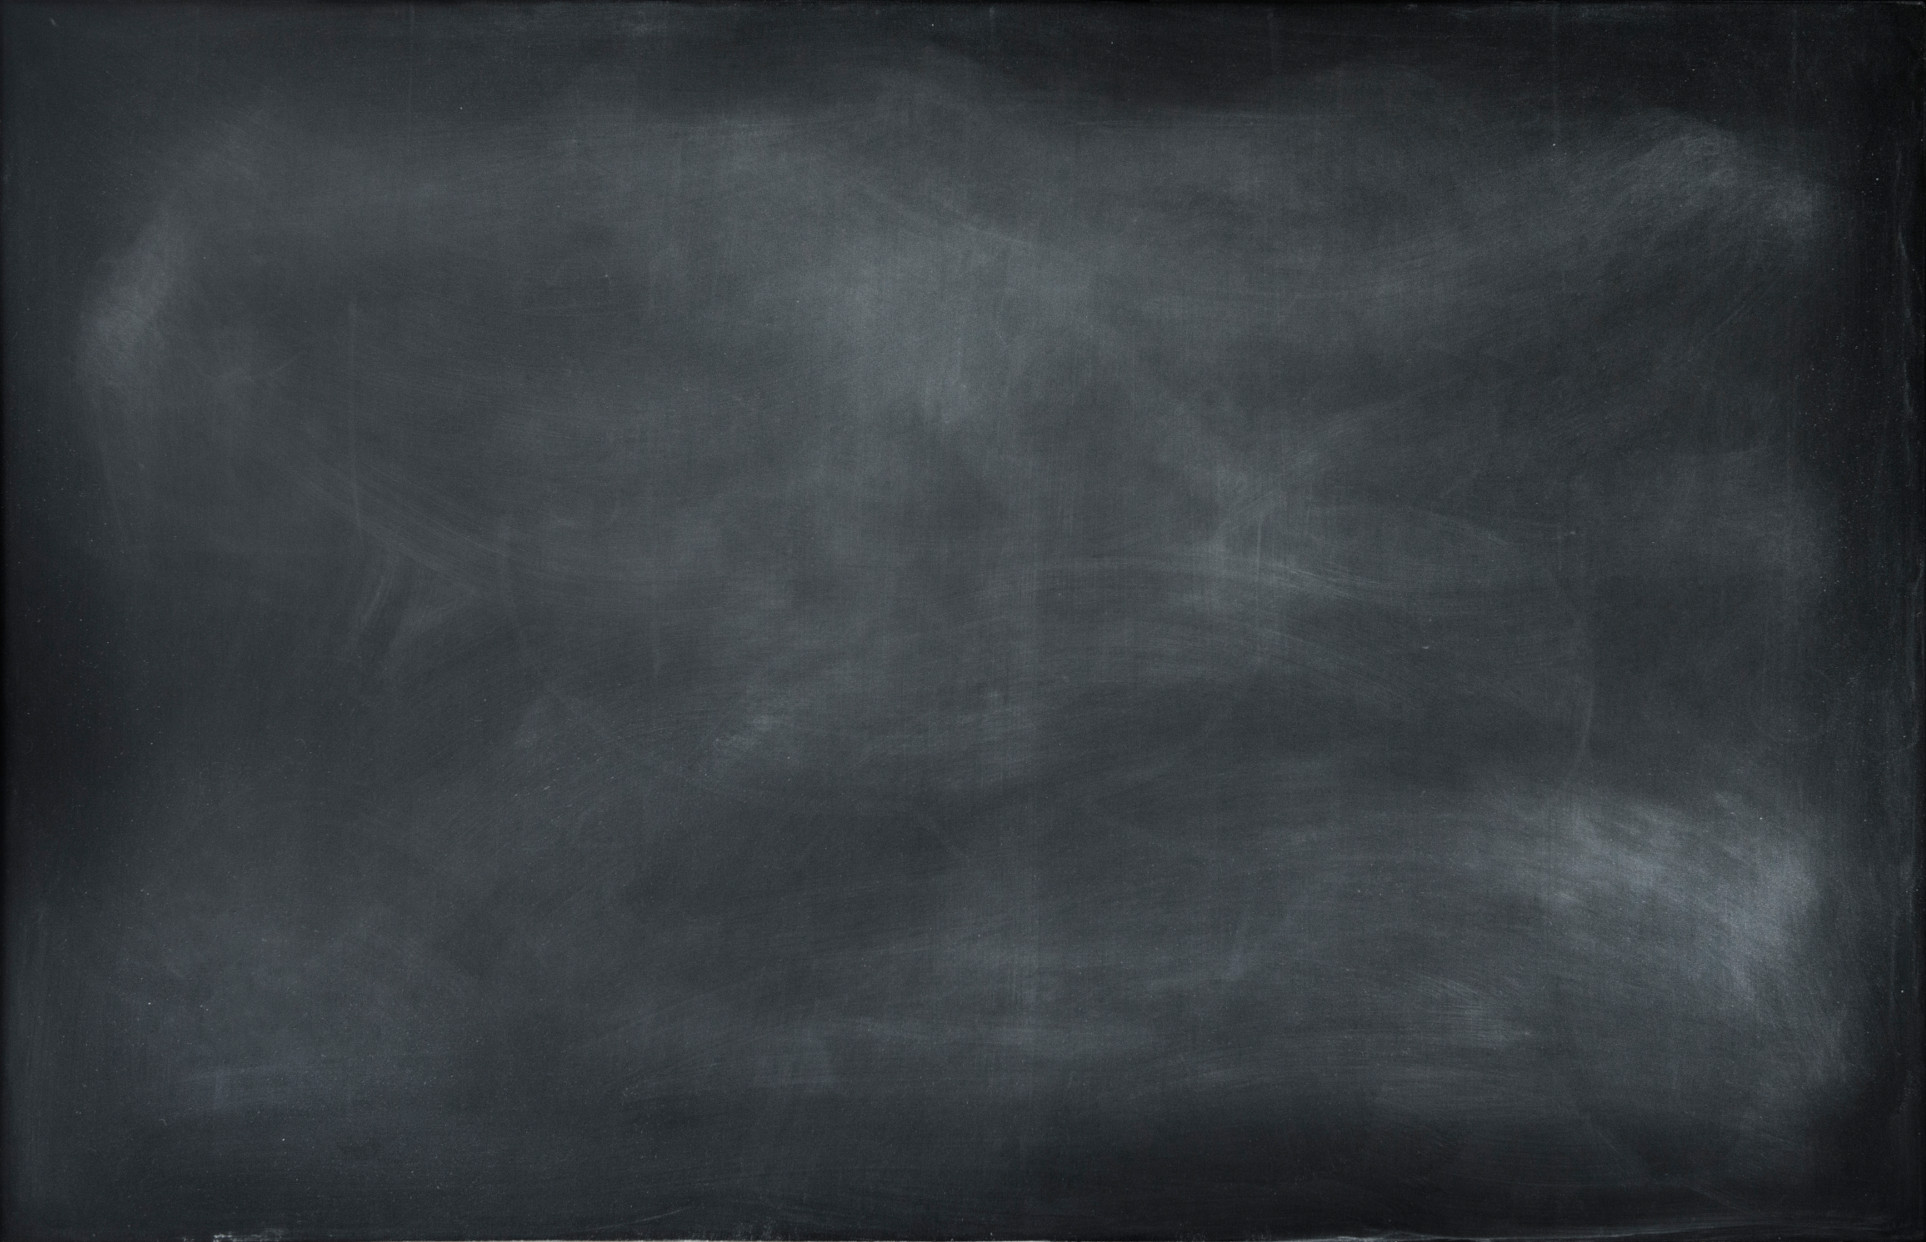
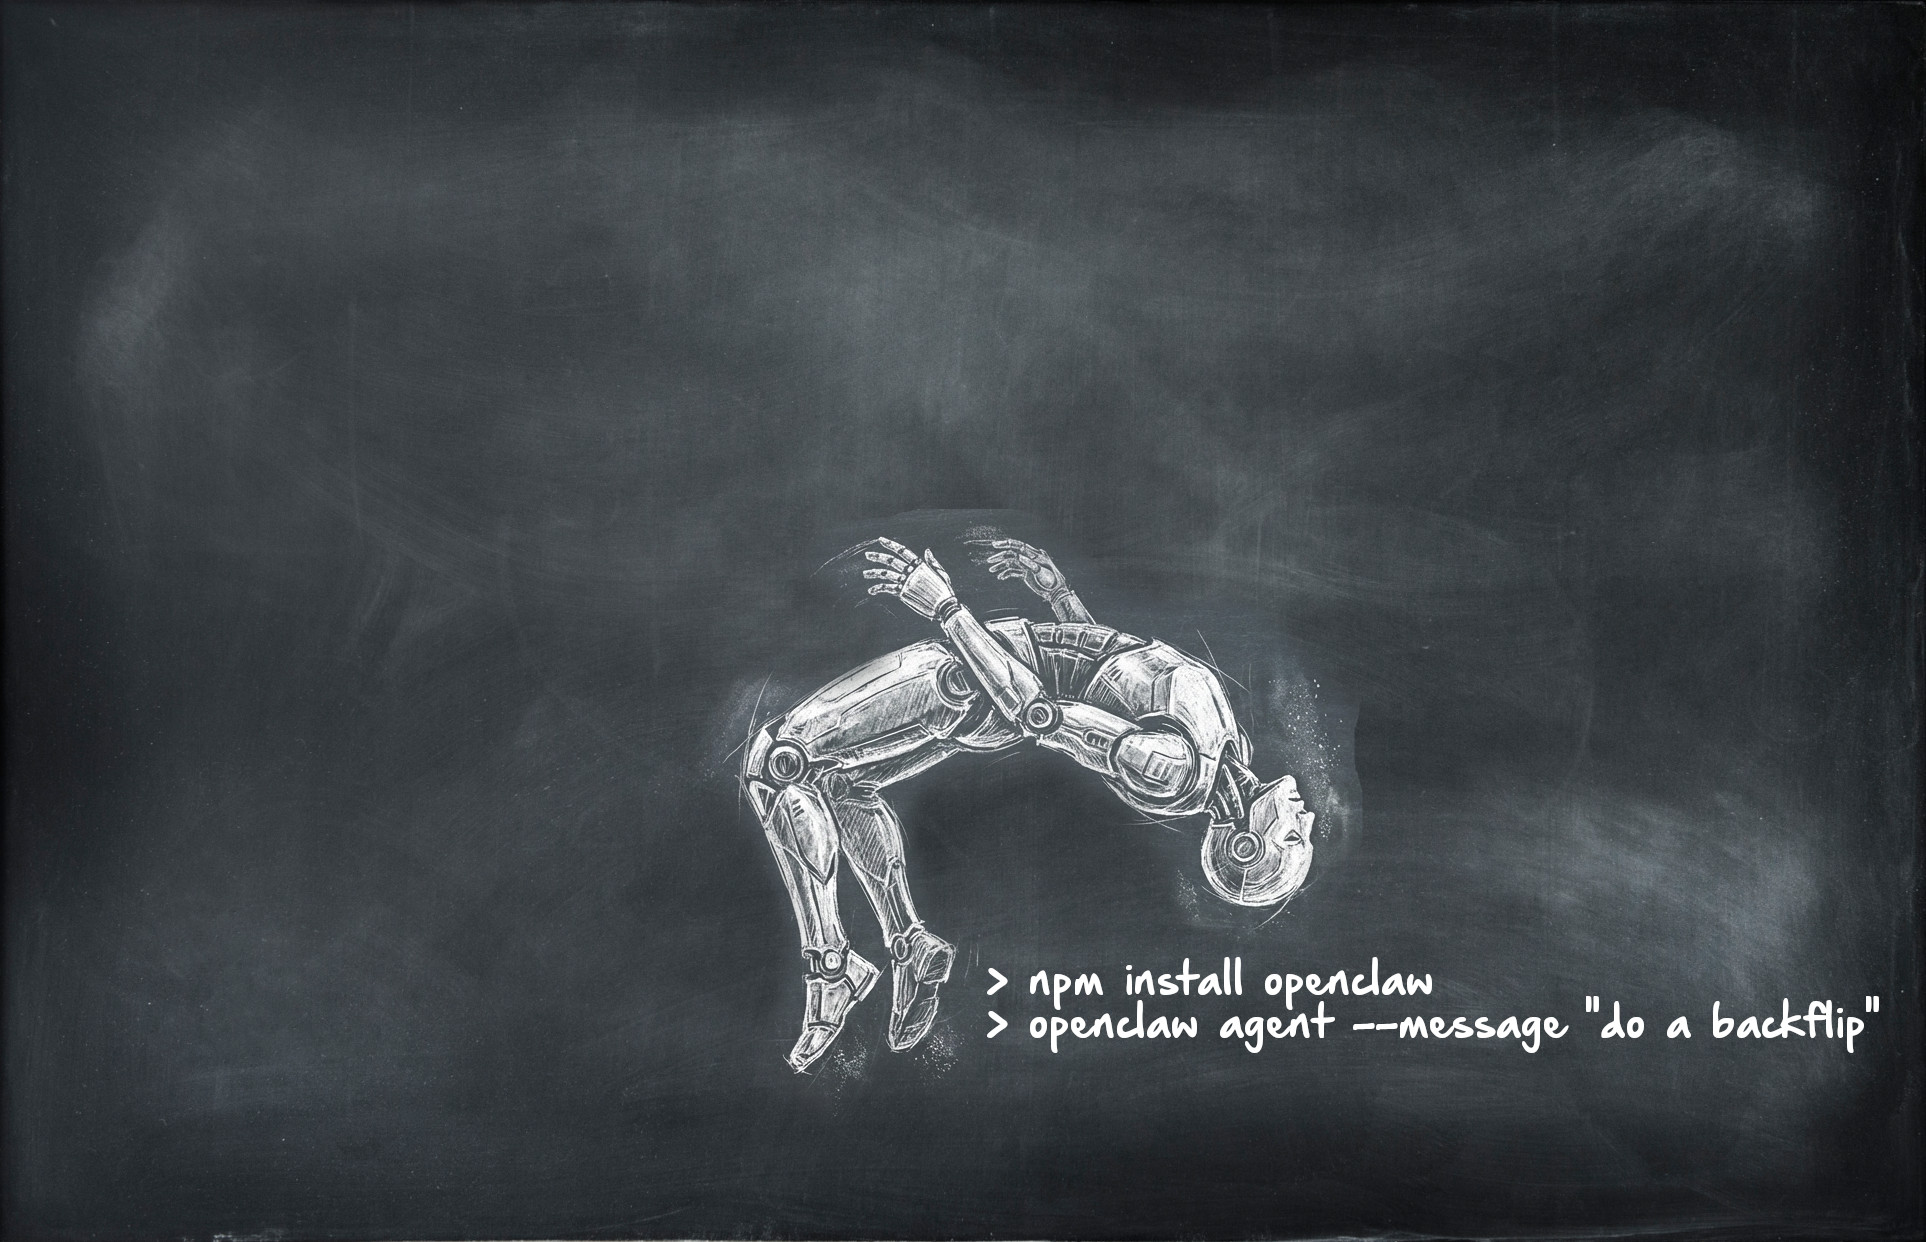
New background image

Changed region(s): [[0.3738, 0.3977, 0.9657, 0.8567]]

diff --git a/humanoid-forum-2026/index.html b/humanoid-forum-2026/index.html
@@ -116,7 +116,7 @@
         <div class="slides">
         
             <section data-background="images/chalkboard01.jpg">
-                <br><br><br><br>
+                <br><br>
                 <h1 style="color: #eee; opacity: 0.8;">Tutorial on Programming Humanoid Robots</h1>
                 <br>
                 <h6 style="color: #aaa; opacity: 0.8;">International Humanoid Forum — February 20, 2026</h6>
